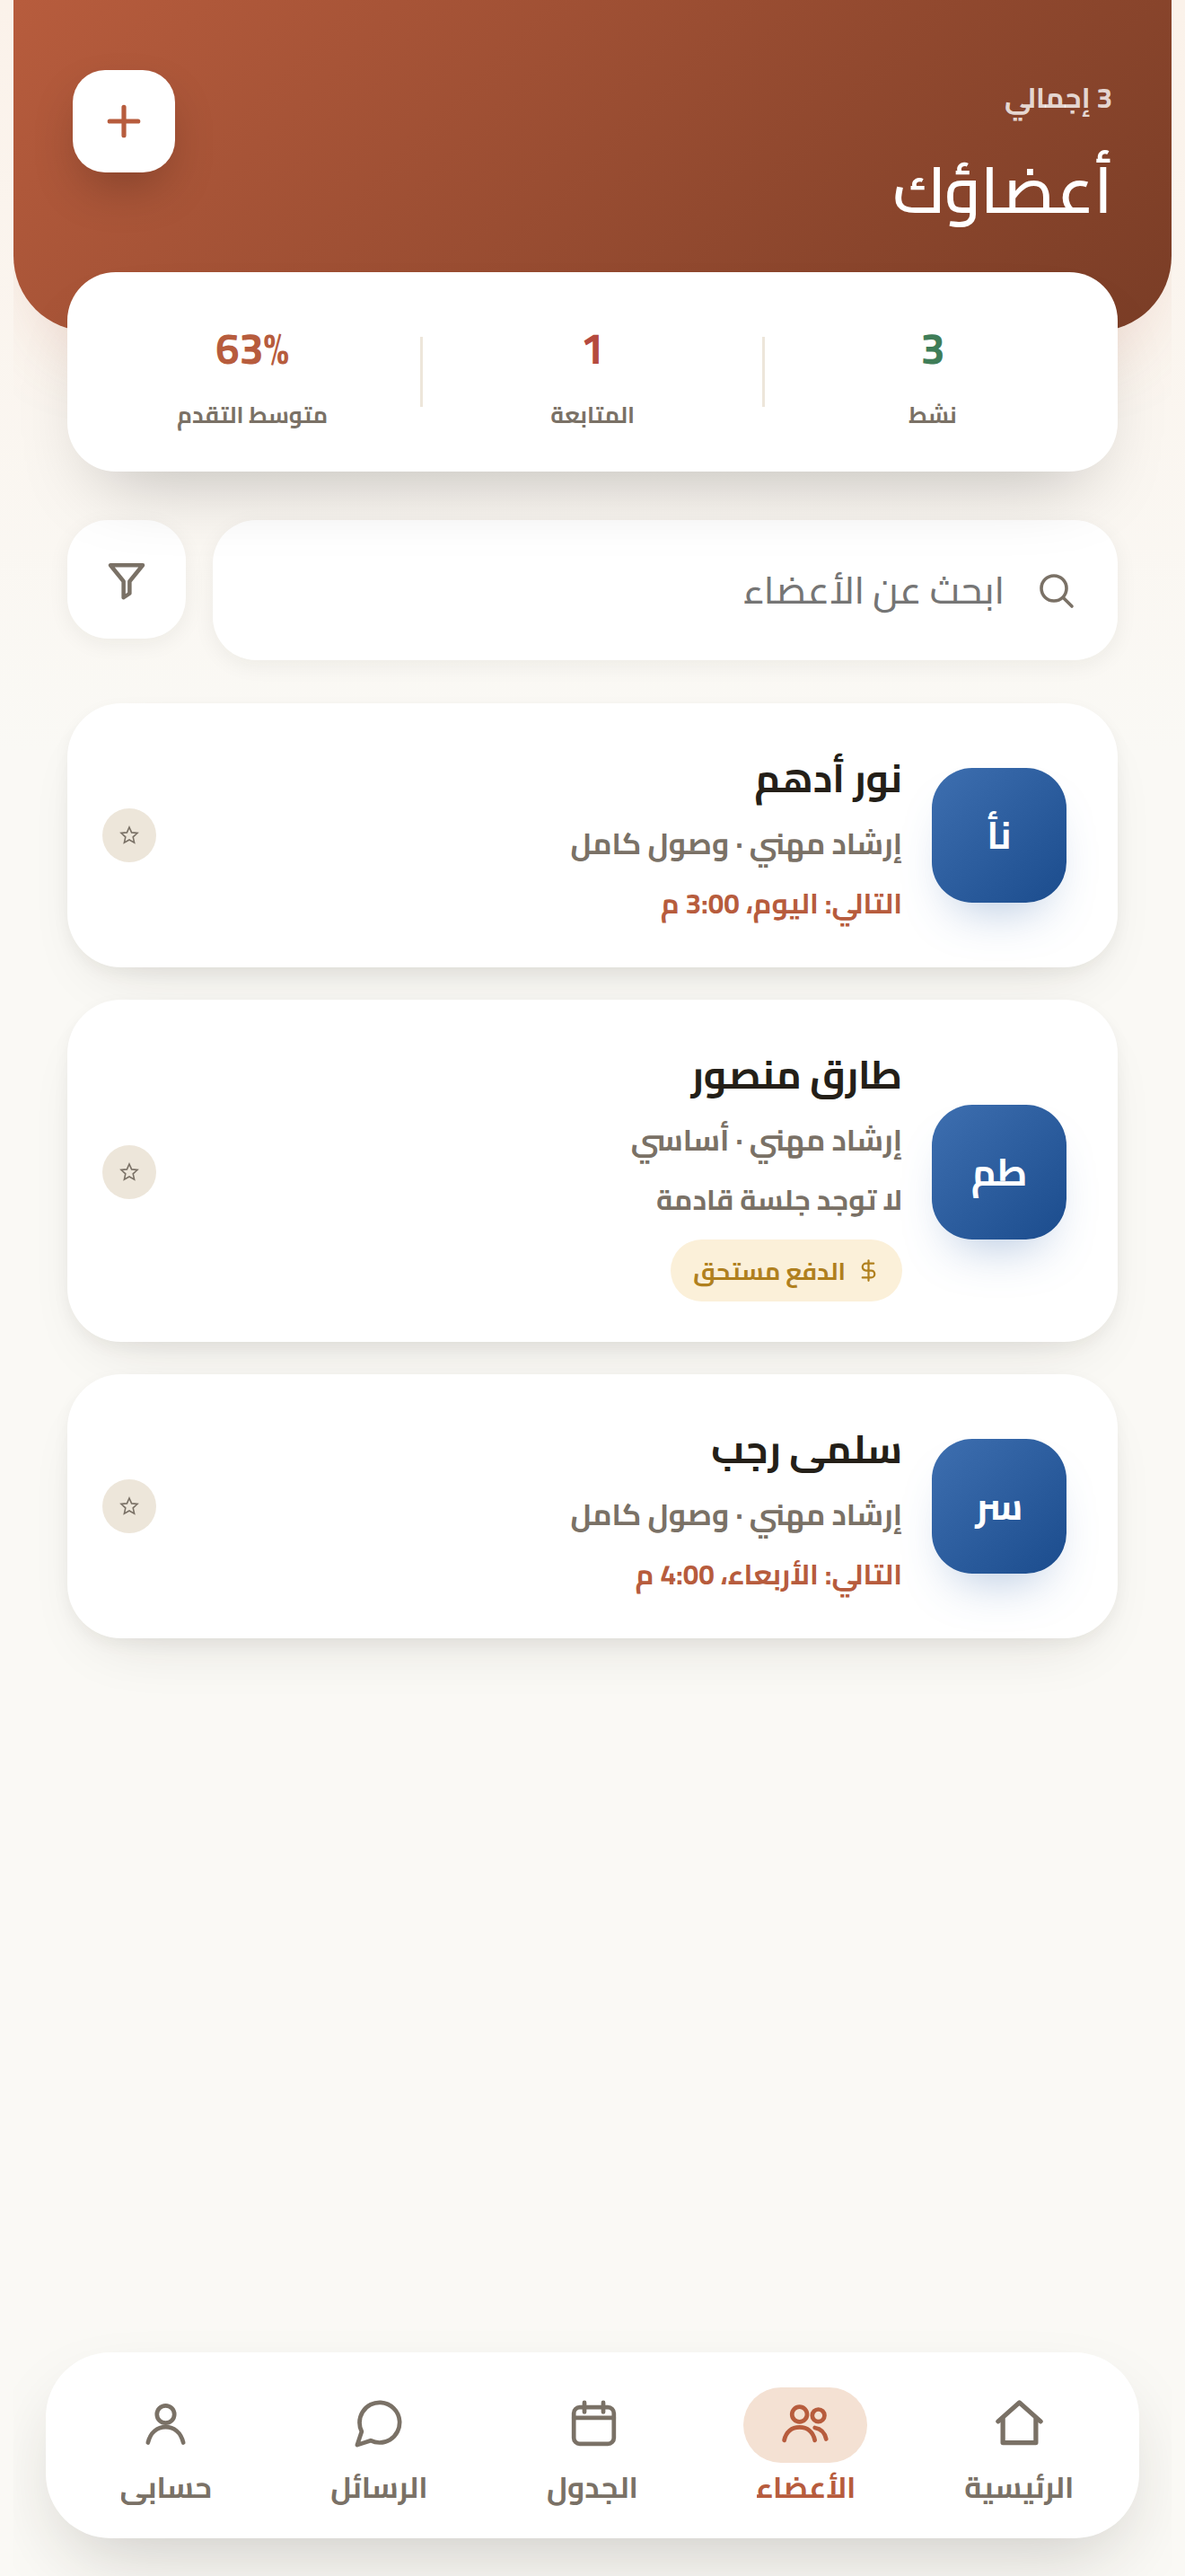
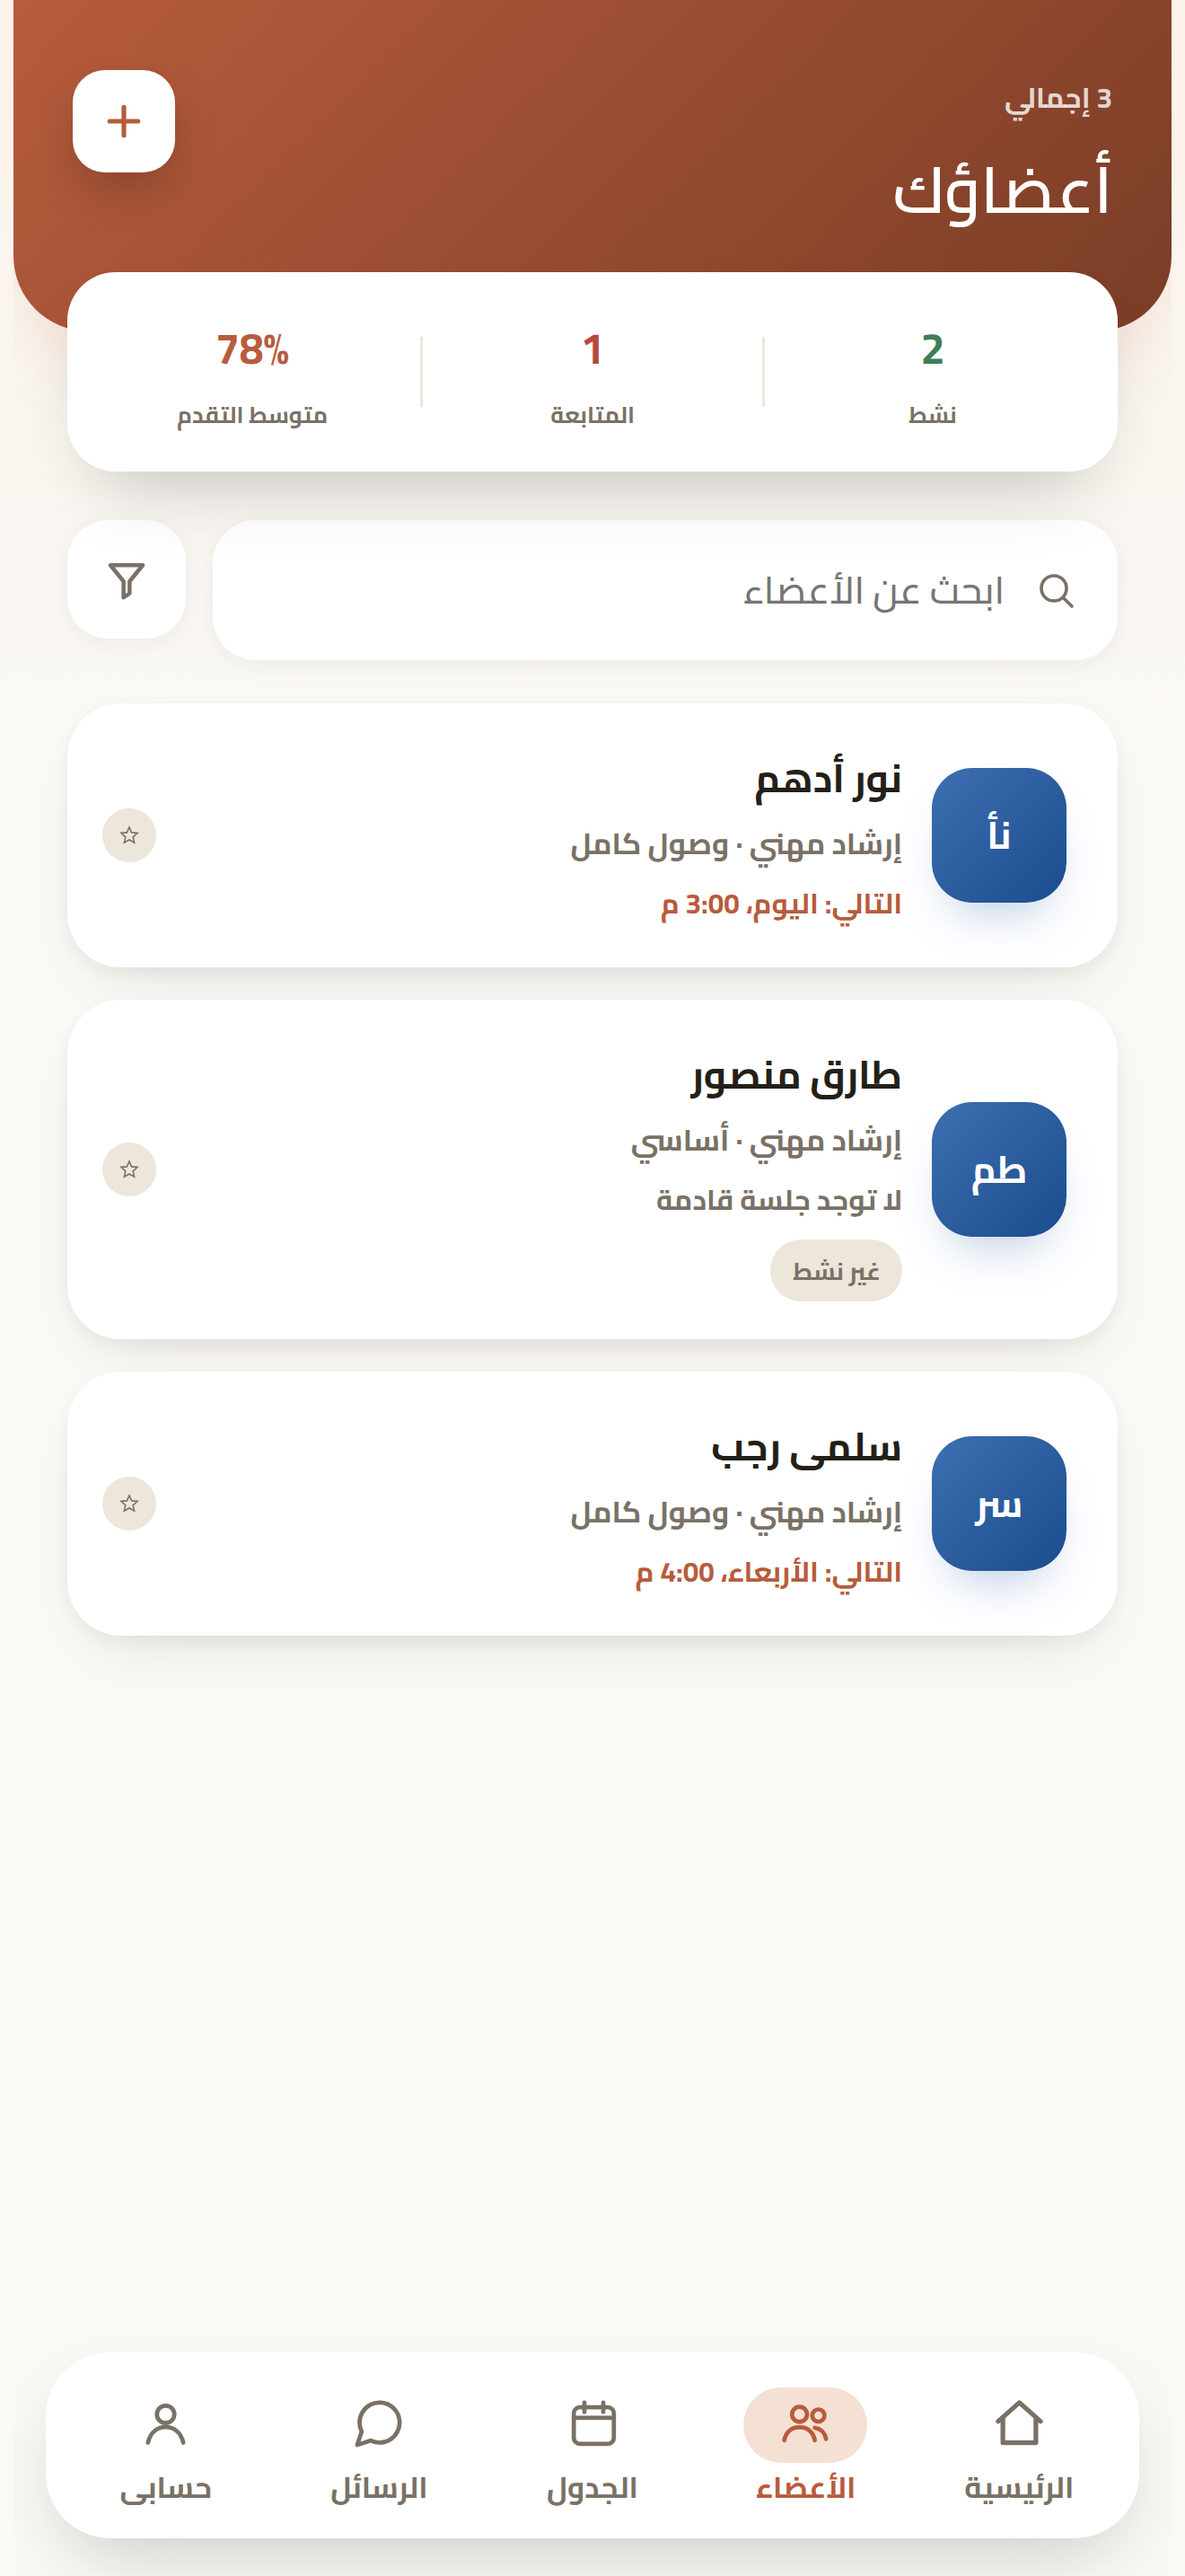
Seed bookings the way the database writes them
The coach Schedule shots showed every booking as "Preferred hours · 50
min", one of them on a 60-minute block. Neither the label nor the length
was what a real booking looks like.

0010/0011 insert a booking as a PAIR: a `booked` time_block whose
`label` is `'Session · ' || <member name>`, and a `sessions` row
carrying its `time_block_id`. A `standard` session runs 50 minutes, an
`intro` 20 (0010:69).

The seed wrote `label: ''` and hour-long slots, so Schedule fell back to
`t('schedulePreferredHours')` for anything not `busy`
(Schedule.tsx:254) — the coach's availability, not a session with a
person — while the duration beside it, taken from `session_type`, said
50 against a 60-minute block. Seeded properly now: real labels, 50-minute
standards, and the matching `sessions` rows, which were missing
entirely on the coach side. A blank label is kept for `busy`, the one
kind where it is right ("Unavailable").

Also sets `clients.origin` (0019). Nothing renders it yet, but the fake
applies no column defaults, so a screen that starts reading it would
see undefined rather than 'coach_invited'.

**The Arabic shots now show the English word "Session".** That is the
stored value — 0010 writes `'Session · '` whatever language the coach
uses, and the screen renders `label` raw. Left as it is, per Ahmed:
it is an app bug he is fixing, and the seed should not work around it by
writing an Arabic label the database would never contain.
[…]

diff --git a/store/screenshots/README.md b/store/screenshots/README.md
@@ -116,7 +116,24 @@ what the app actually does.
   both seeds, because they are enum-like keys into
   `src/lib/specialties.ts` and the screen renders them through `t()`.
 
-Two deliberate choices worth knowing:
+**Bookings are seeded the way the database writes them.** 0010/0011
+insert a booking as a pair — a `booked` time_block whose `label` is
+`'Session · ' || <member name>`, plus a `sessions` row carrying its
+`time_block_id` — and a `standard` session runs 50 minutes, an `intro`
+20 (0010:69). An earlier seed wrote blank labels and hour-long slots, so
+Schedule fell back to `t('schedulePreferredHours')` for anything not
+`busy` (Schedule.tsx:254) and every booking read "Preferred hours · 50
+min" on a 60-minute block: the coach's availability, not a session with
+a person, and the length disagreeing with itself. A blank label is right
+for exactly one kind, `busy`, which reads as "Unavailable".
+
+**The Arabic shots show the English word "Session".** That is the stored
+value: 0010 writes `'Session · '` whatever language the coach uses, and
+the screen renders `label` raw. It is an app bug, Ahmed is fixing it,
+and the seed deliberately does not work around it by writing an Arabic
+label the database would never contain.
+
+Three deliberate choices worth knowing:
 
 **The coach has an avatar.** `shots.mjs` draws an initials avatar onto a
 canvas and serves it as the coach's uploaded photo. Without one, Home
@@ -125,6 +142,20 @@ instead of the running practice, because the profile step wants a photo
 and a bio. The drawn avatar is nobody's face, and a coach who uploads a
 plain avatar is ordinary — so the screen is both the stronger image and a
 state that can really exist.
+
+**One member is archived, so the roster is 2 active of 3.** 0020 caps
+the free plan at three *active* members, and at the cap the Members
+screen shows "Free plan: 3/3 active members used — upgrade to Rafiq Pro
+Plus for unlimited". Rafiq Pro Plus is a "Coming soon" screen
+(`Subscription.tsx:156`) and `store/listing.md` is explicit that the
+listing may not promise paying in the app until §3 lands — so a
+screenshot carrying that banner would advertise a purchase nobody can
+make. An archived member still appears under the default filter, badged
+Inactive, so the roster is no thinner and a lapsed member is an ordinary
+thing for a coach to have. The cost is that Home now reads "2 of 2
+members paid up" instead of showing a payment due; if §3 ships and the
+upgrade becomes real, make all three active again and the banner is
+fine.
 
 **The fake does not enforce the schema.** It models tables, not enums: a
 first draft of the seed used `kind: 'blocked'` for a time block, which
